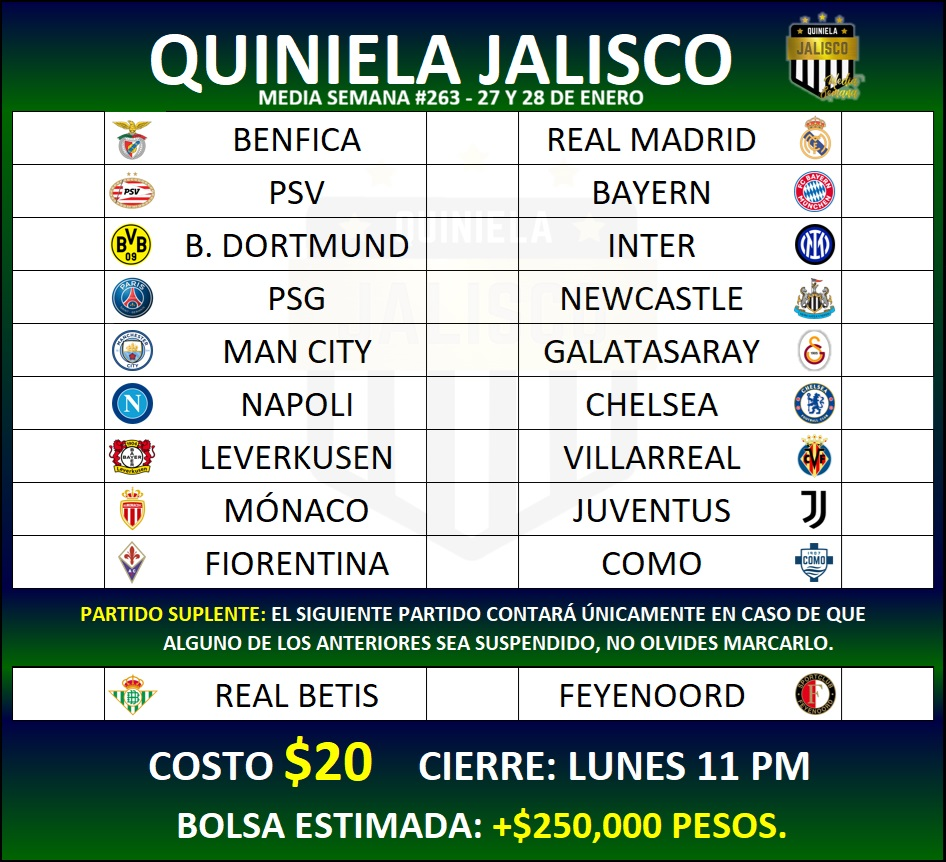
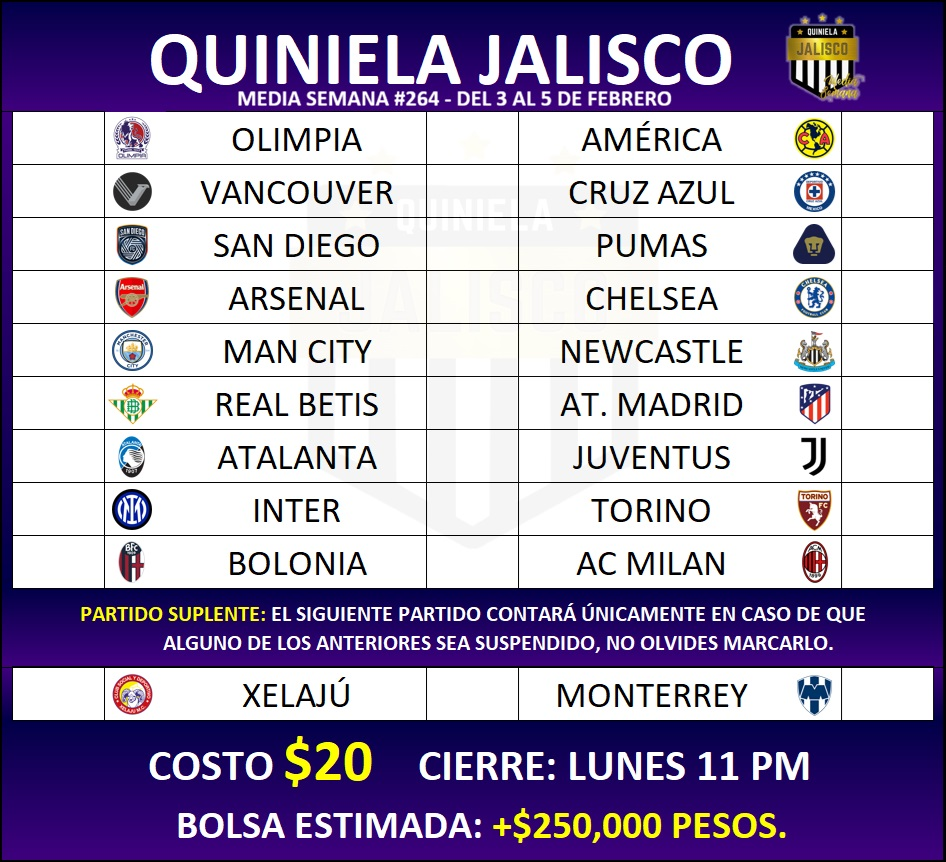
ojjgod

diff --git a/MediaSemana/stylesmSusp.css b/MediaSemana/stylesmSusp.css
@@ -94,8 +94,8 @@ body{
     margin-top: 9%;
     border: solid 1px black;
     border-radius: 0 0 14px 14px;
-    background: -webkit-linear-gradient(0.49turn, rgb(0,75,20) -7%, rgb(0 6 82) 80%);
-    background: linear-gradient(0.49turn, rgb(0,75,20) -7%, rgb(0 6 82) 80%);
+    background: -webkit-linear-gradient(0.49turn, rgb(41,0,110) -7%, rgb(0 6 82) 80%);
+    background: linear-gradient(0.49turn, rgb(40,0,110) -7%, rgb(0 6 82) 80%);
 }
 
 .text-lg{
